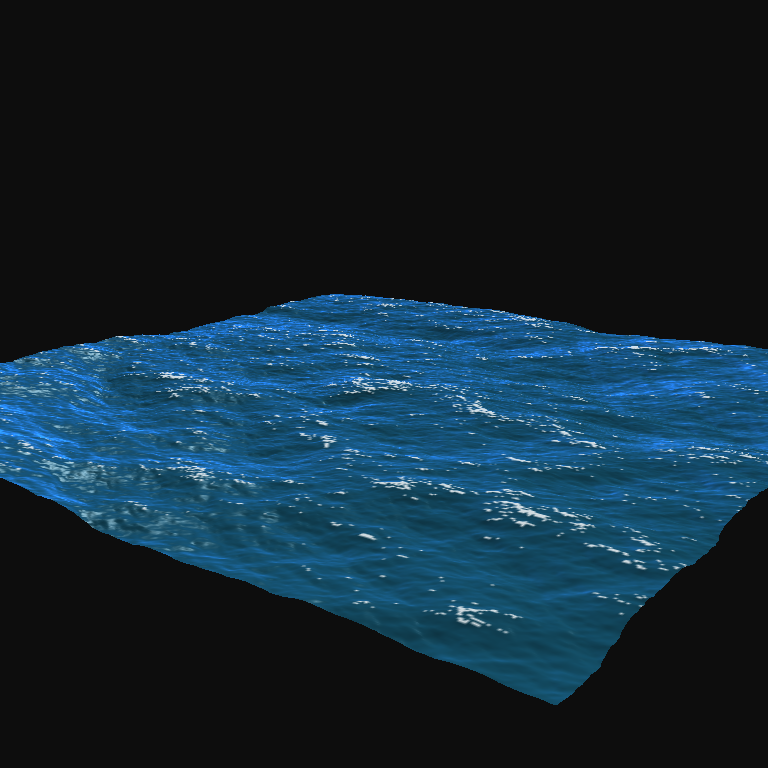
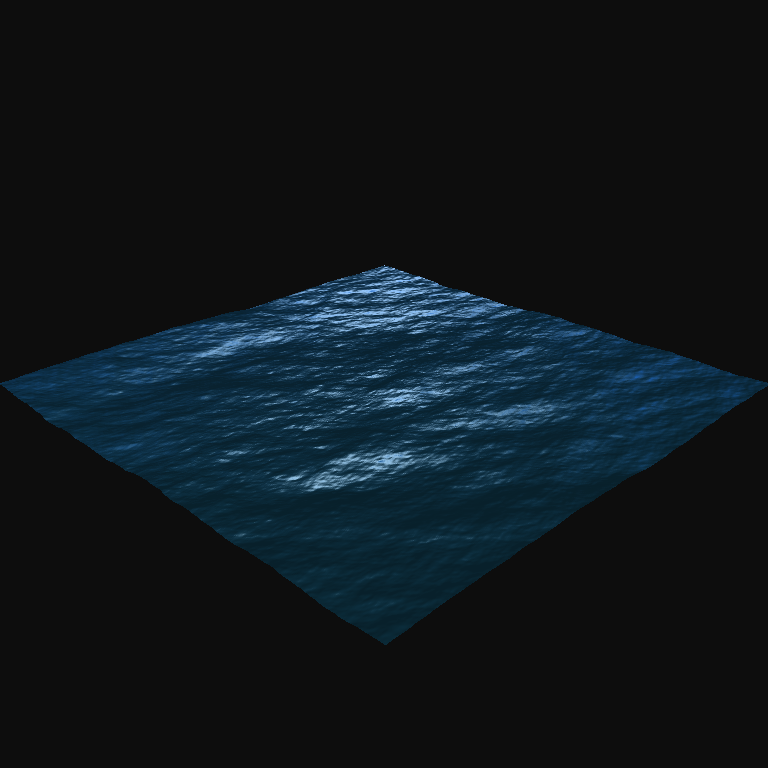
Added sun position slider in UI and shadows

diff --git a/rendering/renderer.py b/rendering/renderer.py
@@ -5,11 +5,6 @@ import numpy as np
 import pyrr
 from PIL import Image
 
-from ocean.parameters import (
-    CAMERA_EYE, CHOPPINESS, DEEP_COLOUR, DEPTH_SCALE,
-    FOAM_THRESHOLD, GRID_RESOLUTION, GRID_SIZE, HEIGHT_SCALE,
-    SHALLOW_COLOUR, SUN_DIR, WIND_DIRECTION_DEG, WIND_SPEED,
-)
 
 
 # --- Context and framebuffer ---
@@ -44,6 +39,46 @@ def load_shaders(ctx):
         frag_src = f.read()
     program = ctx.program(vertex_shader=vert_src, fragment_shader=frag_src)
     return program
+
+
+def load_shadow_shaders(ctx):
+    shader_dir = os.path.join(os.path.dirname(__file__), 'shaders')
+    with open(os.path.join(shader_dir, 'shadow.vert')) as f:
+        vert_src = f.read()
+    with open(os.path.join(shader_dir, 'shadow.frag')) as f:
+        frag_src = f.read()
+    program = ctx.program(vertex_shader=vert_src, fragment_shader=frag_src)
+    return program
+
+
+# --- Shadow map ---
+
+def create_shadow_map(ctx, shadow_size=2048):
+    shadow_tex = ctx.depth_texture((shadow_size, shadow_size))
+    shadow_fbo = ctx.framebuffer(depth_attachment=shadow_tex)
+    return shadow_tex, shadow_fbo
+
+
+def create_light_space_matrix(sun_dir, grid_size):
+    sun_dir = np.array(sun_dir, dtype=np.float32)
+    sun_dir = sun_dir / np.linalg.norm(sun_dir)
+    sun_pos = sun_dir * 2000.0
+
+    up = np.array([0, 1, 0], dtype=np.float32)
+    if abs(np.dot(sun_dir, up)) > 0.99:
+        up = np.array([0, 0, 1], dtype=np.float32)
+
+    light_view = pyrr.matrix44.create_look_at(
+        eye=sun_pos,
+        target=np.array([0, 0, 0], dtype=np.float32),
+        up=up,
+    )
+    half = grid_size * 0.65
+    light_proj = pyrr.matrix44.create_orthogonal_projection(
+        left=-half, right=half, bottom=-half, top=half,
+        near=0.1, far=4000.0, dtype=np.float32,
+    )
+    return (light_proj @ light_view).astype(np.float32)
 
 
 # --- Camera ---
@@ -145,19 +180,44 @@ def render(params, width=1024, height=1024):
     fbo = create_framebuffer(ctx, width, height)
     program = load_shaders(ctx)
     vbo, ibo = create_grid_mesh(ctx, grid_resolution=params['grid_resolution'])
-    vao = ctx.vertex_array(program, [(vbo, '2f', 'in_uv')], ibo)
 
     textures = upload_all_textures(
         ctx, wave_height, surface_tilt_x, surface_tilt_y, sideways_shift_x, sideways_shift_y, foam_mask
     )
+
+    light_space = create_light_space_matrix(params['sun_dir'], params['grid_size'])
+
+    # --- Shadow pass ---
+    shadow_tex, shadow_fbo = create_shadow_map(ctx)
+    shadow_prog = load_shadow_shaders(ctx)
+    shadow_vao = ctx.vertex_array(shadow_prog, [(vbo, '2f', 'in_uv')], ibo)
+
+    textures['height'].use(location=0)
+    textures['sideways_shift'].use(location=1)
+    shadow_prog['u_height'].value = 0
+    shadow_prog['u_sideways_shift'].value = 1
+    shadow_prog['u_light_space'].write(light_space.tobytes())
+    shadow_prog['u_grid_size'].value = (params['grid_size'], params['grid_size'])
+    shadow_prog['u_height_scale'].value = params['height_scale']
+
+    shadow_fbo.use()
+    ctx.clear(depth=True)
+    ctx.enable(moderngl.DEPTH_TEST)
+    shadow_vao.render()
+
+    # --- Main pass ---
+    vao = ctx.vertex_array(program, [(vbo, '2f', 'in_uv')], ibo)
+
     textures['height'].use(location=0)
     textures['sideways_shift'].use(location=1)
     textures['surface_tilt'].use(location=2)
     textures['foam_mask'].use(location=3)
+    shadow_tex.use(location=4)
     program['u_height'].value = 0
     program['u_sideways_shift'].value = 1
     program['u_surface_tilt'].value = 2
     program['u_foam_mask'].value = 3
+    program['u_shadow_map'].value = 4
 
     view, projection = create_camera_matrices(width, height, eye=params['camera_eye'])
 
@@ -166,6 +226,7 @@ def render(params, width=1024, height=1024):
     ctx.enable(moderngl.DEPTH_TEST)
     program['u_view'].write(view.astype('f4').tobytes())
     program['u_projection'].write(projection.astype('f4').tobytes())
+    program['u_light_space'].write(light_space.tobytes())
     program['u_grid_size'].value = (params['grid_size'], params['grid_size'])
     program['u_height_scale'].value = params['height_scale']
     program['u_camera_pos'].value = params['camera_eye']

diff --git a/ui/controls.py b/ui/controls.py
@@ -1,9 +1,10 @@
 import tkinter as tk
 from tkinter import ttk
 
-from ocean.parameters import default_params, orbit_to_camera_eye
+from ocean.parameters import default_params, orbit_to_camera_eye, sun_dir_from_angles
 
 DEFAULT_CAMERA = (135.0, 25.0, 850.0)
+DEFAULT_SUN = (45.0, 45.0)
 
 SLIDER_STEPS = {
     'wind_speed':           0.5,
@@ -15,6 +16,8 @@ SLIDER_STEPS = {
     'camera_azimuth_deg':   1.0,
     'camera_elevation_deg': 1.0,
     'camera_distance':      10.0,
+    'sun_azimuth_deg':      1.0,
+    'sun_elevation_deg':    1.0,
 }
 
 _BG      = '#1e1e2e'
@@ -27,6 +30,7 @@ _FONT    = 'Segoe UI'
 _OCEAN_KEYS  = ['wind_speed', 'wind_direction_deg', 'choppiness',
                 'foam_threshold', 'height_scale', 'time']
 _COLOUR_KEYS = ['deep_colour', 'shallow_colour']
+_SUN_KEYS    = ['sun_azimuth_deg', 'sun_elevation_deg']
 
 
 def _rgb_to_hex(rgb_0_1):
@@ -77,14 +81,22 @@ class OceanControls(tk.Frame):
             ("Distance",            'camera_distance',      100.0, 3000.0,  10.0),
         ]
 
+        sun_sliders = [
+            ("Azimuth (°)",   'sun_azimuth_deg',   0.0,  360.0, 1.0),
+            ("Elevation (°)", 'sun_elevation_deg',  5.0,   89.0, 1.0),
+        ]
+
         row = self._build_slider_section("Ocean Parameters", ocean_sliders,
                                          start_row=0, reset_cmd=self._reset_ocean)
         self._build_separator(row)
         row = self._build_colour_section("Ocean Colour", colour_params,
                                          start_row=row + 1, reset_cmd=self._reset_colours)
         self._build_separator(row)
-        self._build_slider_section("Camera", camera_sliders,
-                                   start_row=row + 1, reset_cmd=self._reset_camera)
+        row = self._build_slider_section("Camera", camera_sliders,
+                                         start_row=row + 1, reset_cmd=self._reset_camera)
+        self._build_separator(row)
+        self._build_slider_section("Sun", sun_sliders,
+                                   start_row=row + 1, reset_cmd=self._reset_sun)
 
     def _section_header(self, row, title, reset_cmd=None):
         frame = tk.Frame(self, bg=_SECTION, padx=6, pady=4)
@@ -176,6 +188,7 @@ class OceanControls(tk.Frame):
         self.params[key] = snapped
         fmt_var.set(f"{snapped:.{decimals}f}")
         self._sync_camera()
+        self._sync_sun()
         if self.on_change:
             self.on_change(key)
 
@@ -205,6 +218,12 @@ class OceanControls(tk.Frame):
             self.vars['camera_distance'].get(),
         )
 
+    def _sync_sun(self):
+        self.params['sun_dir'] = sun_dir_from_angles(
+            self.vars['sun_azimuth_deg'].get(),
+            self.vars['sun_elevation_deg'].get(),
+        )
+
     def _reset_camera(self):
         az, el, dist = DEFAULT_CAMERA
         self.vars['camera_azimuth_deg'].set(az)
@@ -218,8 +237,19 @@ class OceanControls(tk.Frame):
                 fmt_var, dec = self.fmt_vars[key]
                 fmt_var.set(f"{val:.{dec}f}")
 
+    def _reset_sun(self):
+        az, el = DEFAULT_SUN
+        self.vars['sun_azimuth_deg'].set(az)
+        self.vars['sun_elevation_deg'].set(el)
+        self.params['sun_dir'] = sun_dir_from_angles(az, el)
+        for key, val in [('sun_azimuth_deg', az), ('sun_elevation_deg', el)]:
+            if key in self.fmt_vars:
+                fmt_var, dec = self.fmt_vars[key]
+                fmt_var.set(f"{val:.{dec}f}")
+
     def get_params(self):
         for key, var in self.vars.items():
             self.params[key] = var.get()
         self._sync_camera()
+        self._sync_sun()
         return self.params

diff --git a/ocean/parameters.py b/ocean/parameters.py
@@ -15,7 +15,8 @@ CAMERA_EYE = (600, 250, 600)
 CAMERA_AZIMUTH_DEG = 135.0
 CAMERA_ELEVATION_DEG = 25.0
 CAMERA_DISTANCE = 850.0
-SUN_DIR = (1.0, 1.0, 0.5)
+SUN_AZIMUTH_DEG = 45.0
+SUN_ELEVATION_DEG = 45.0
 DEEP_COLOUR = (0.02, 0.15, 0.3)
 SHALLOW_COLOUR = (0.1, 0.4, 0.5)
 
@@ -27,6 +28,14 @@ def orbit_to_camera_eye(azimuth_deg, elevation_deg, distance):
     x = distance * math.cos(el) * math.sin(az)
     y = distance * math.sin(el)
     z = distance * math.cos(el) * math.cos(az)
+    return (x, y, z)
+
+def sun_dir_from_angles(azimuth_deg, elevation_deg):
+    az = math.radians(azimuth_deg)
+    el = math.radians(elevation_deg)
+    x = math.cos(el) * math.sin(az)
+    y = math.sin(el)
+    z = math.cos(el) * math.cos(az)
     return (x, y, z)
 
 def default_params():
@@ -45,7 +54,9 @@ def default_params():
         'camera_elevation_deg': CAMERA_ELEVATION_DEG,
         'camera_distance':    CAMERA_DISTANCE,
         'camera_eye':         orbit_to_camera_eye(CAMERA_AZIMUTH_DEG, CAMERA_ELEVATION_DEG, CAMERA_DISTANCE),
-        'sun_dir':            SUN_DIR,
+        'sun_azimuth_deg':    SUN_AZIMUTH_DEG,
+        'sun_elevation_deg':  SUN_ELEVATION_DEG,
+        'sun_dir':            sun_dir_from_angles(SUN_AZIMUTH_DEG, SUN_ELEVATION_DEG),
         'deep_colour':        DEEP_COLOUR,
         'shallow_colour':     SHALLOW_COLOUR,
     }
